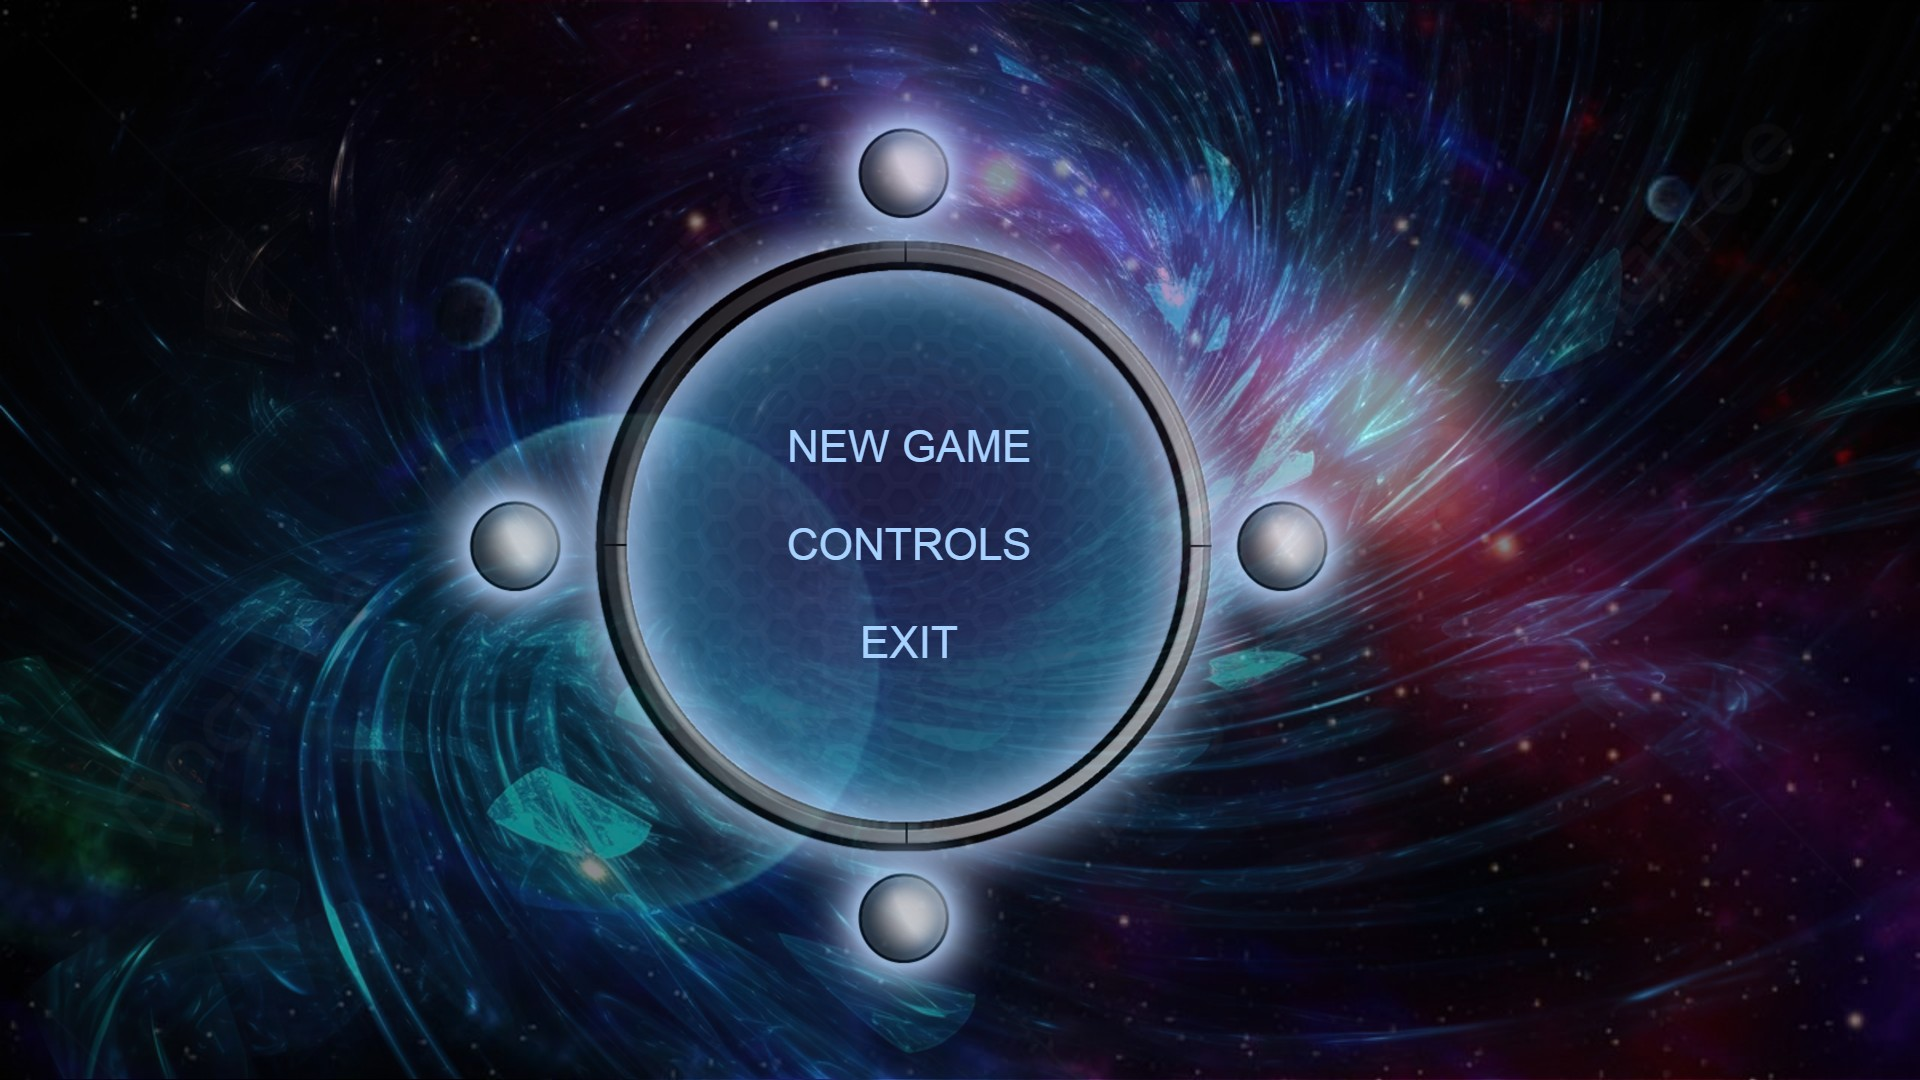
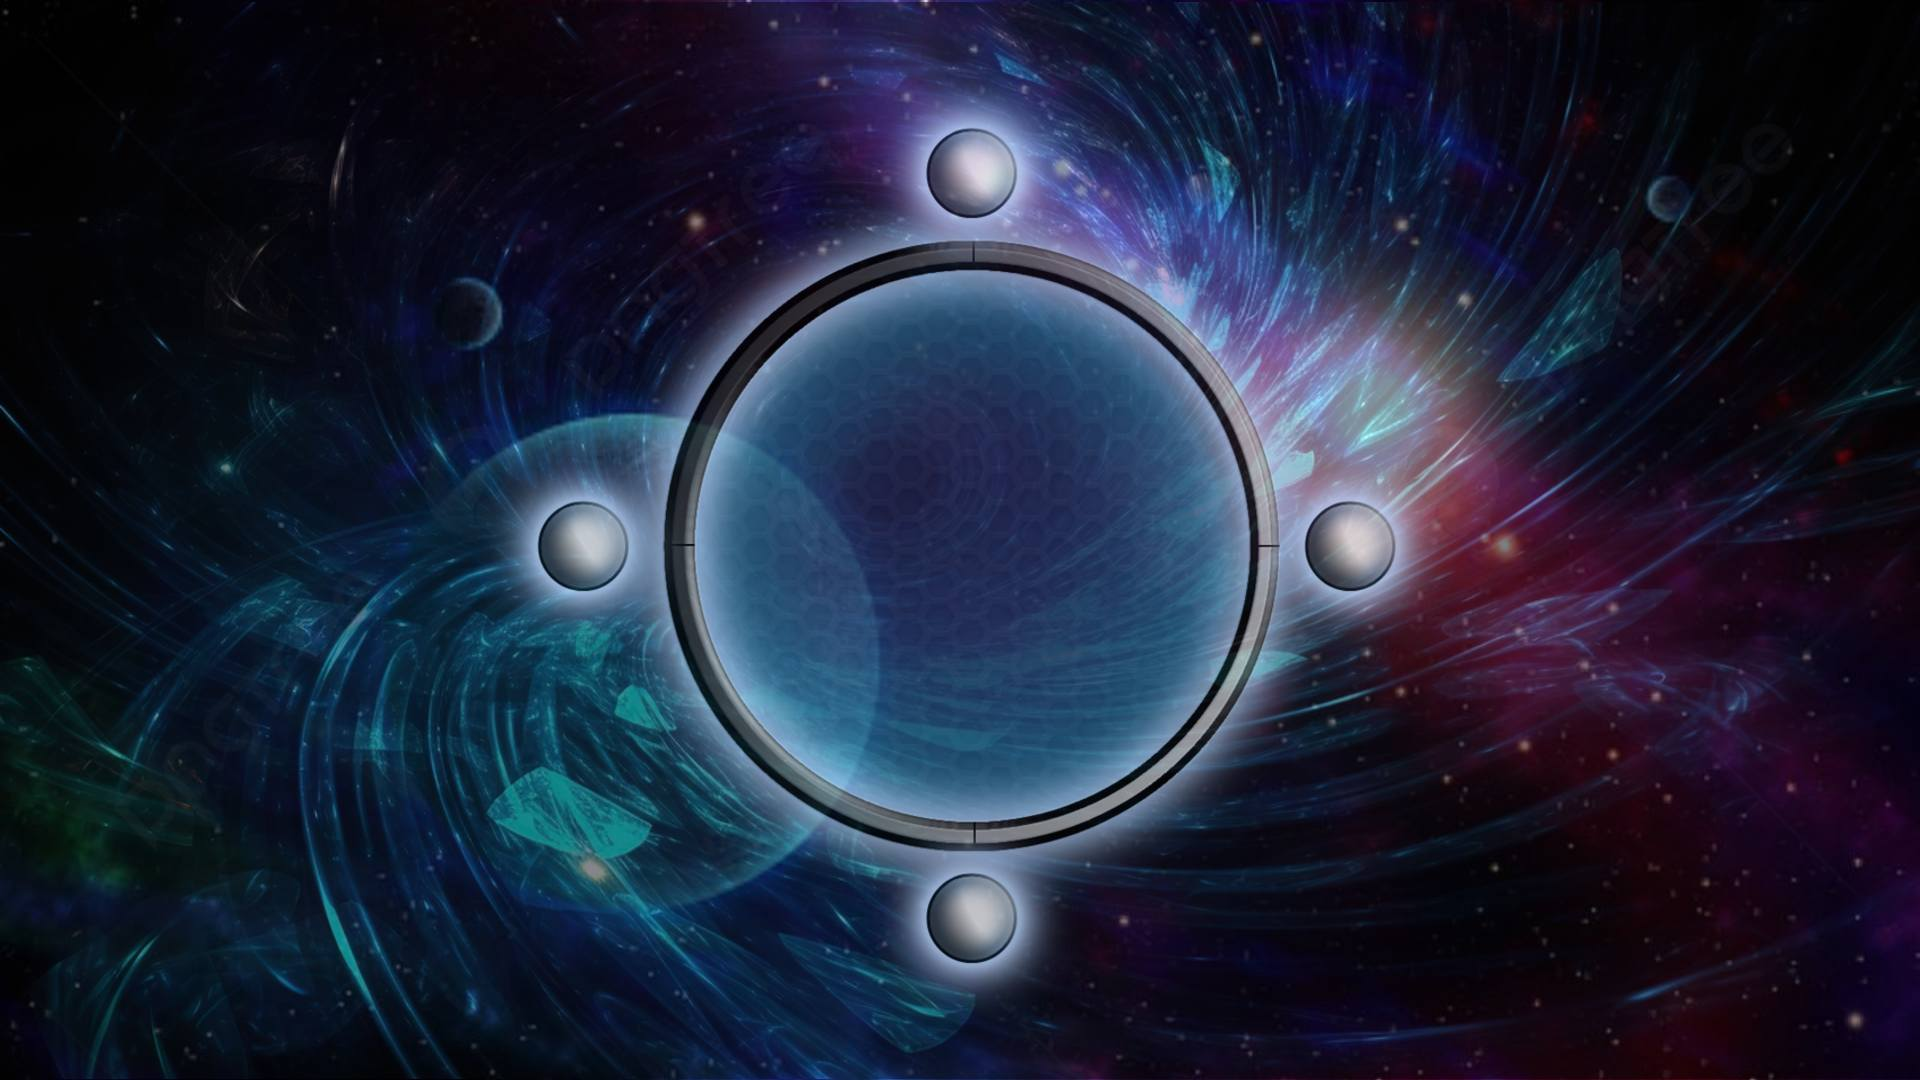
Main_Menu_Handler

Changed region(s): [[0.2188, 0.0917, 0.75, 0.9472], [0.4375, 0.5806, 0.5, 0.6111]]

diff --git a/Game/game/MyGame.cpp b/Game/game/MyGame.cpp
@@ -9,7 +9,9 @@
 //*************** INIT ***************
 void CMyGame::OnInitialize()
 {
-
+	currentMenuState = MAIN_MENU;
+	mainMenuOptionSelection = NEW_GAME;
+	gameStarted = false;
 	// Main Objects
 	map = new Map();
 	player = new Player();
@@ -45,7 +47,8 @@ void CMyGame::OnDraw(CGraphics* g)
 
 	if (IsMenuMode())
 	{
-		startScreen.Draw(g);
+		
+		MaiMenuDraw(g);
 		return;
 	}
 
@@ -87,30 +90,114 @@ void CMyGame::CameraControl(CGraphics* g)
 }
 
 
+
 void CMyGame::InitSpritesAndModels()
 {
 	// start screen
 	startScreen.LoadImage("startScreen.jpg");
 	startScreen.SetSize((float)Width, (float)Height);
 	startScreen.SetPosition((float)Width / 2, (float)Height / 2);
+
+	mainMenushowControlers.LoadImage("mainMenushowControlers.jpg");
+	mainMenushowControlers.SetSize((float)Width, (float)Height);
+	mainMenushowControlers.SetPosition((float)Width / 2, (float)Height / 2);
 }
 
 //*************** KEYBOARD EVENTS ***************
+
+
+
 void CMyGame::OnKeyDown(SDLKey sym, SDLMod mod, Uint16 unicode)
 {
-	//Exit
-	if (sym == SDLK_F4 && (mod & (KMOD_LALT | KMOD_RALT)))
-		StopGame();
-
 	//Start
-	if (sym == 13) {
-
-		StartGame();
-		mainBgMusic.Play("mainBg.wav");
-	}
+	MainMenyController(sym);
 }
 
 void CMyGame::OnRButtonDown(Uint16 x, Uint16 y)
 {
 	player->OnRButtonDown(ScreenToFloorCoordinate(x, y));
+}
+
+void CMyGame::MaiMenuDraw(CGraphics* g)
+{
+	if (currentMenuState == SHOW_CONTROLLERS) 
+	{
+		mainMenushowControlers.Draw(g);
+		font.DrawText((float)Width / 2 - 220.f, 360, "RIGHT MOUSE BTN. - MOVE CHARACTER", CColor::White() , 32);
+		font.DrawText((float)Width / 2 - 220.f, 290, "Q - SHOOT", CColor::White(), 32);
+		font.DrawText((float)Width / 2 - 220.f, 220, "W - SKILL_1", CColor::White(), 32);
+		font.DrawText((float)Width / 2 - 220.f, 150, "E - INTERACT", CColor::White(), 32);
+
+		font.DrawText((float)Width / 2 - 120.f, 30, "BACK", CColor::White(), 42);
+	}
+	else 
+	{
+		startScreen.Draw(g);
+		font.DrawText((float)Width / 2 - 70.f, 420, "NEW GAME", mainMenuOptionSelection == NEW_GAME ? CColor::White() : CColor::LightGray(), 42);
+		font.DrawText((float)Width / 2 - 70.f, 350, "CONTROLS", mainMenuOptionSelection == CONTROLS ? CColor::White() : CColor::LightGray(), 42);
+		font.DrawText((float)Width / 2 - 70.f, 280, "EXIT", mainMenuOptionSelection == EXIT ? CColor::White() : CColor::LightGray(), 42);
+	}
+}
+
+
+void CMyGame::MainMenyController(SDLKey sym)
+{
+	// Call / Cancel Menu on ESC btn. pressed
+	if (!IsMenuMode() && sym == SDLK_ESCAPE && gameStarted )
+	{
+		SetGameMode(MODE_MENU);
+		currentMenuState = MAIN_MENU;
+	}
+	else if (IsMenuMode() && sym == SDLK_ESCAPE && gameStarted && currentMenuState == MAIN_MENU)
+	{
+		SetGameMode(MODE_RUNNING);
+		currentMenuState = IN_GAME;
+	}
+
+	////******* IF NOT IN MENU MODE -> RETURN
+	if (!IsMenuMode()) return;
+
+	//******* IF SHOW_CONTROLLERS
+	if (currentMenuState == SHOW_CONTROLLERS )
+	{
+		if (sym == 13 || sym == SDLK_ESCAPE) currentMenuState = MAIN_MENU;
+	}
+
+	//******* IF MAIN_MENU
+	else if (currentMenuState == MAIN_MENU )
+	{
+		//Start
+		if (sym == 13 && mainMenuOptionSelection == NEW_GAME)
+		{
+			StartGame();
+			gameStarted = true;
+			mainBgMusic.Play("mainBg.wav");
+			mainBgMusic.SetVolume(20);
+			currentMenuState = IN_GAME;
+		}
+
+		//SHOW CONTROLERS
+		if (sym == 13 && mainMenuOptionSelection == CONTROLS)
+		{
+			currentMenuState = SHOW_CONTROLLERS;
+		}
+
+		//Exit
+		if (sym == 13 && mainMenuOptionSelection == EXIT)
+		{
+			StopGame();
+		}
+
+		//Menu Scroller
+		if ((sym == SDLK_s) || (sym == SDLK_DOWN))
+		{
+			mainMenuOptionSelection++;
+			if (mainMenuOptionSelection > 2)  mainMenuOptionSelection = 0;
+		}
+		else if ((sym == SDLK_w) || (sym == SDLK_UP))
+		{
+			mainMenuOptionSelection--;
+			if (mainMenuOptionSelection < 0)  mainMenuOptionSelection = 2;
+		}
+	}
 }

diff --git a/Game/game/headers/MyGame.h b/Game/game/headers/MyGame.h
@@ -10,7 +10,7 @@ class Enemy;
 class CMyGame : public CGame
 {
 private:
-	CSprite startScreen;
+	CSprite startScreen, mainMenushowControlers;
 	CFont font;
 
 	// Main Objects
@@ -26,6 +26,8 @@ private:
 	virtual void OnRender3D(CGraphics* g);
 	void CameraControl(CGraphics* g);
 
+	void MainMenyController(SDLKey sym);
+
 	//INIT SPRITES AND MODELS
 	void InitSpritesAndModels();
 
@@ -33,6 +35,13 @@ private:
 	virtual void OnKeyDown(SDLKey sym, SDLMod mod, Uint16 unicode);
 	void  OnRButtonDown(Uint16 x, Uint16 y);
 
+	//Game Modes
+	enum GameModes{MAIN_MENU, CHAR_STATS, SHOP, IN_GAME, CUTSCENE, SHOW_CONTROLLERS};
+	enum mainMenuOptions{NEW_GAME, CONTROLS, EXIT};
+	bool gameStarted;
+	int mainMenuOptionSelection;
+	void MaiMenuDraw(CGraphics* g);
+	int currentMenuState;
 	//sound
 	CSoundPlayer mainBgMusic;
 };

diff --git a/Game/game/Player.cpp b/Game/game/Player.cpp
@@ -40,7 +40,6 @@ void Player::PlayerControl(bool Dkey, bool Akey, bool Wkey , bool Skey)
 	//Movement
 	if (playerModel.IsAutoMoving())
 	{
-		
 		playerModel.PlayAnimation("run", 7, true);
 	}
 	else
